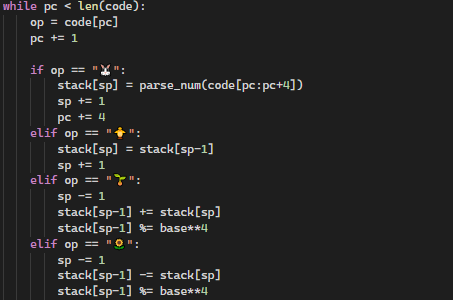
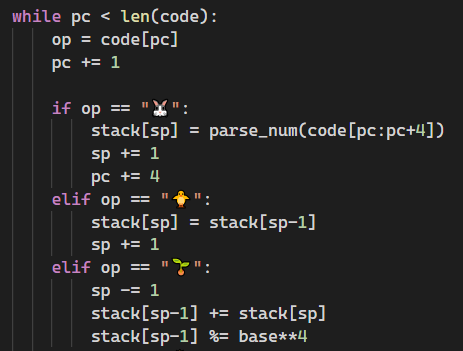
Highlight på merkelig.py

Changed region(s): [[0.0, 0.0, 0.9581, 1.0]]

diff --git a/index.html b/index.html
@@ -316,15 +316,15 @@
             <br />
             <h3 class="fragment fade-up">🤔</h3>
             <aside class="notes">
-              Og alle forsøk på å gjette passordet blir feil (NESTE)<br /><br />
+              Og alle forsøk på å gjette passordet blir feil (NESTE x2)<br /><br />
 
-              Tydeligvis er målet er å finne passordet (NESTE)<br /><br />
+              Tydeligvis er målet er å finne passordet<br /><br />
 
               Så vi må begynne å lete litt mer grundig...
             </aside>
           </section>
 
-          <section>
+          <section data-transition="none">
             <h3>merkelig.py</h3>
             <img
               data-src="img/merkelig_py_1.png"
@@ -332,10 +332,18 @@
               style="width: 70%"
             />
             <aside class="notes">
-              TODO: sirkler rundt innhold!
+              Vi studerer Pyton-skriptet litt nærmere
+            </aside>
+          </section>
 
-              Vi studerer Pyton-skriptet litt nærmere.<br /><br />
-
+          <section data-transition="none">
+            <h3>merkelig.py</h3>
+            <img
+              data-src="img/merkelig_py_1_highlighted.png"
+              class="plain"
+              style="width: 70%"
+            />
+            <aside class="notes">
               * Vi ser enkelte emojier defineres med en tall-verdi <br />
               * Vi ser en funksjon <b>parse_num</b> som gjør om input til et
               tall
@@ -350,21 +358,29 @@
             </aside>
           </section>
 
-          <section>
+          <section data-transition="none">
             <h3>merkelig.py</h3>
             <img
               data-src="img/merkelig_py_2.png"
               class="plain"
-              style="width: 80%"
+              style="width: 70%"
             />
             <aside class="notes">
-              TODO: sirkler rundt innhold!
-
               Hmm. Videre ned i skriptet ser vi at dette kjøres i en
-              while-løkke<br /><br />
+              while-løkke
+            </aside>
+          </section>
 
-              Og når vi ser hva <b>op</b>, <b>sp</b>, <b>stack</b> osv. brukes
-              til i hver runde i while-løkken, begynner dette å bli klart hva vi
+          <section data-transition="none">
+            <h3>merkelig.py</h3>
+            <img
+              data-src="img/merkelig_py_2_highlighted.png"
+              class="plain"
+              style="width: 70%"
+            />
+            <aside class="notes">
+              Og når vi ser hva <b>op</b>, <b>pc</b>, <b>sp</b>, <b>stack</b> osv. brukes
+              til i hver runde i while-løkken, og spesielt i hver av operand-emojiene, så begynner dette å bli klart hva vi
               har med å gjøre.
             </aside>
           </section>
